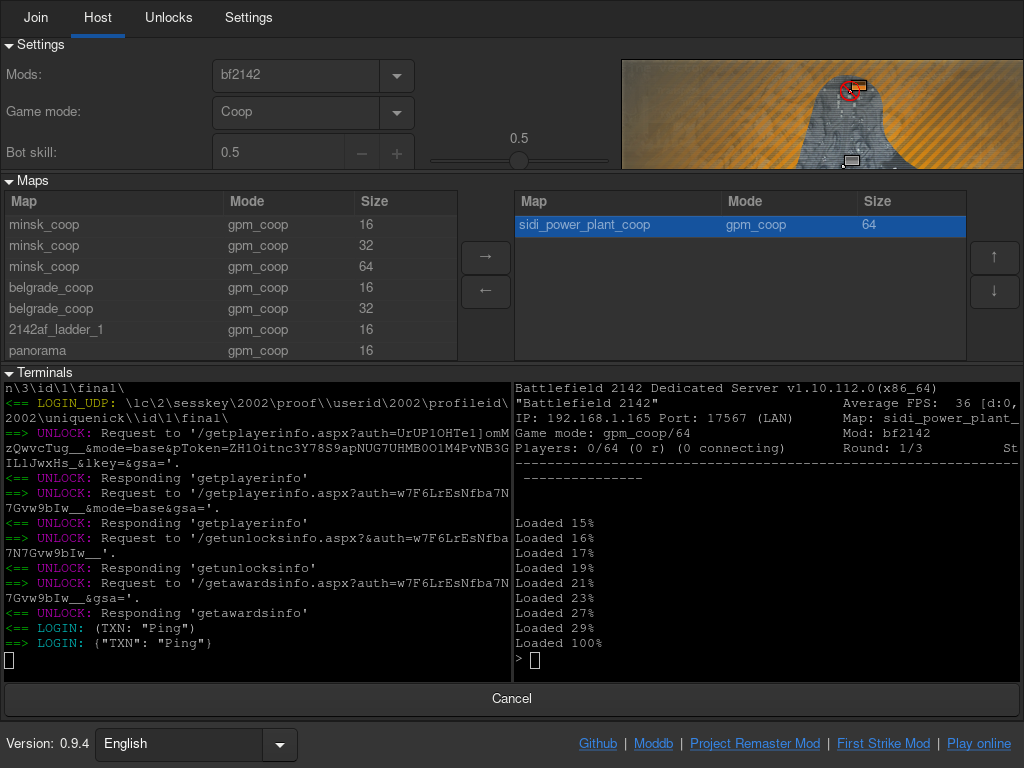
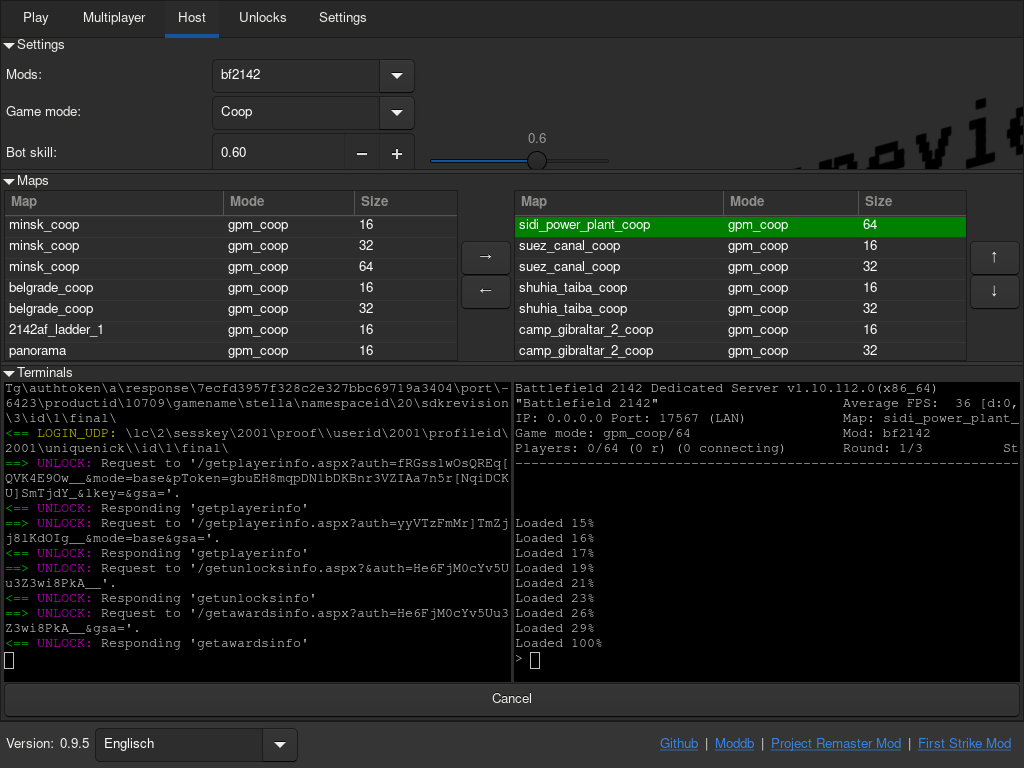
- Updated screenshots. - Updated readme. - Renamed "StellaName" in multiplayer tab to "Stella"

diff --git a/readme.md b/readme.md
@@ -17,9 +17,14 @@ Also the BF2142Unlocker has a multiplayer feature withit you can create accounts
 - Start the BF2142Unlocker:
   - Windows: BF2142Unlocker.exe
   - Linux: BF2142Unlocker
-- Set your Battlefield 2142 path in "Settings" tab (if BF2142Unlocker couldn't find the installatio path).
+- Set your Battlefield 2142 path in "Settings" tab (if BF2142Unlocker couldn't find the installation path).
 - Goto "Play" tab and click on "Singleplayer". You'll get logged in and can start playing games against bots in singleplayer.
 - Or host your LAN server by clicking on "Host".  Tell your friends your ip address they need to connect to.
+- If you want to play on multiplayer servers you maybe need to install custom maps (see bellow `Mappack for vanilla game`).
+  <br />
+  Double click on any server (or click the play button) and a login window will show up. Enter your login data (or create an account), select or create your soldier and click on `Play`. This will start the game, login into your account, select your soldier and connect directly to the game server.
+  <br />
+  If this feature is broken in future you can also click on the `Quickstart` button as fallback (this will just patch the BF2142.exe and start the game).
 
 ## Host dedicated server:
 - Set your Battlefield 2142 game serer path in "Settings" tab.
@@ -72,6 +77,6 @@ Also the BF2142Unlocker has a multiplayer feature withit you can create accounts
 - `nimble install -d # Install dependencies`
 - `nimble release # Build BF2142Unlocker and bundle it into "build" folder`
 
-## Compile (Docker)
+## Compile (Docker) [Currently not maintained, maybe broken]
 - `docker-compose up`
 - `sh copydockerbuild.sh # Copies the compiled files from the docker container into the local build folder`
